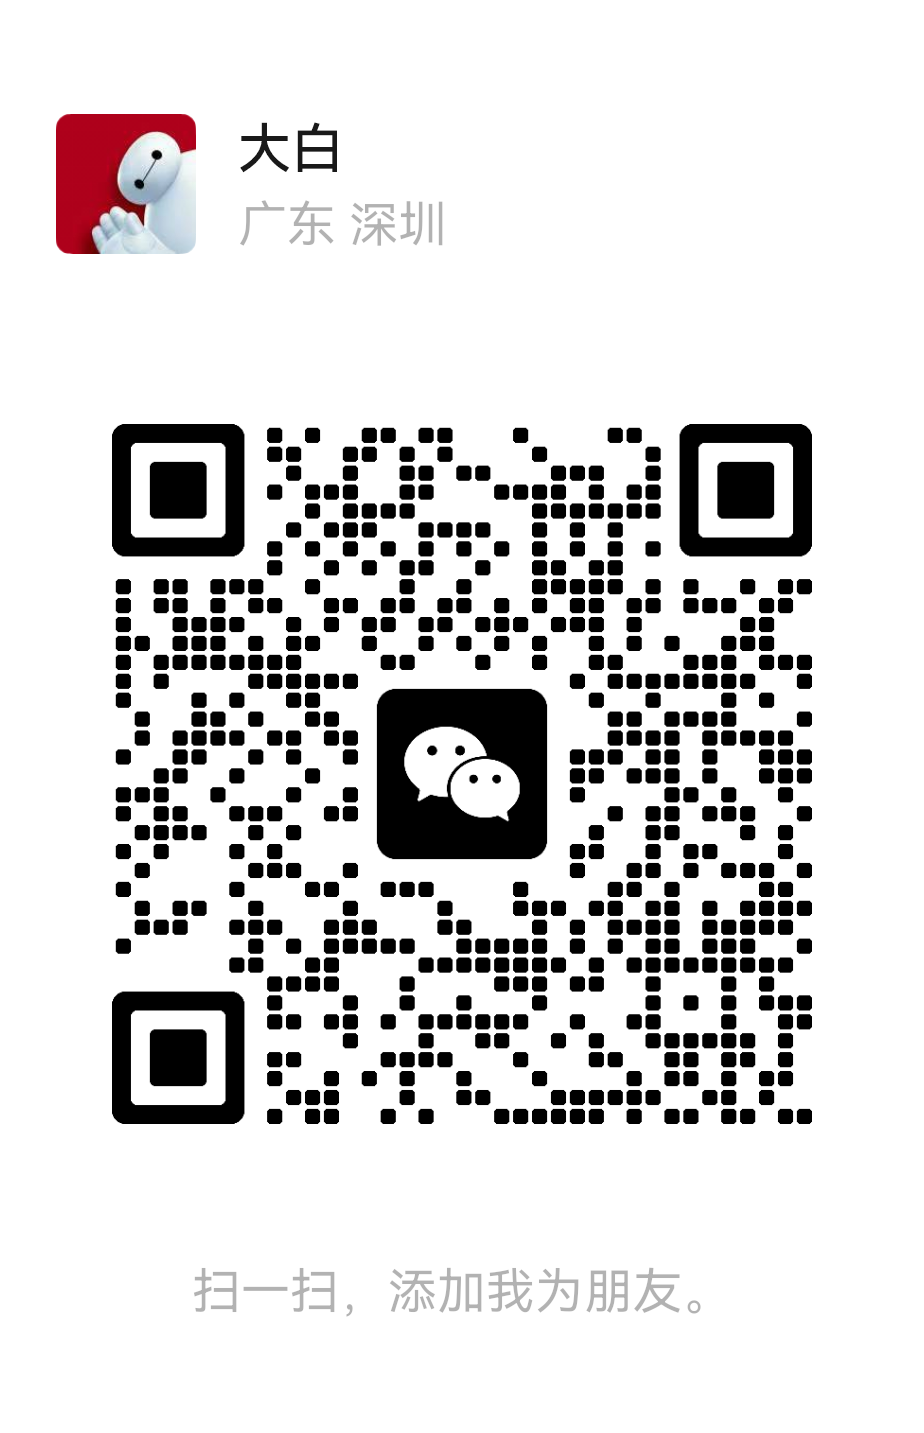
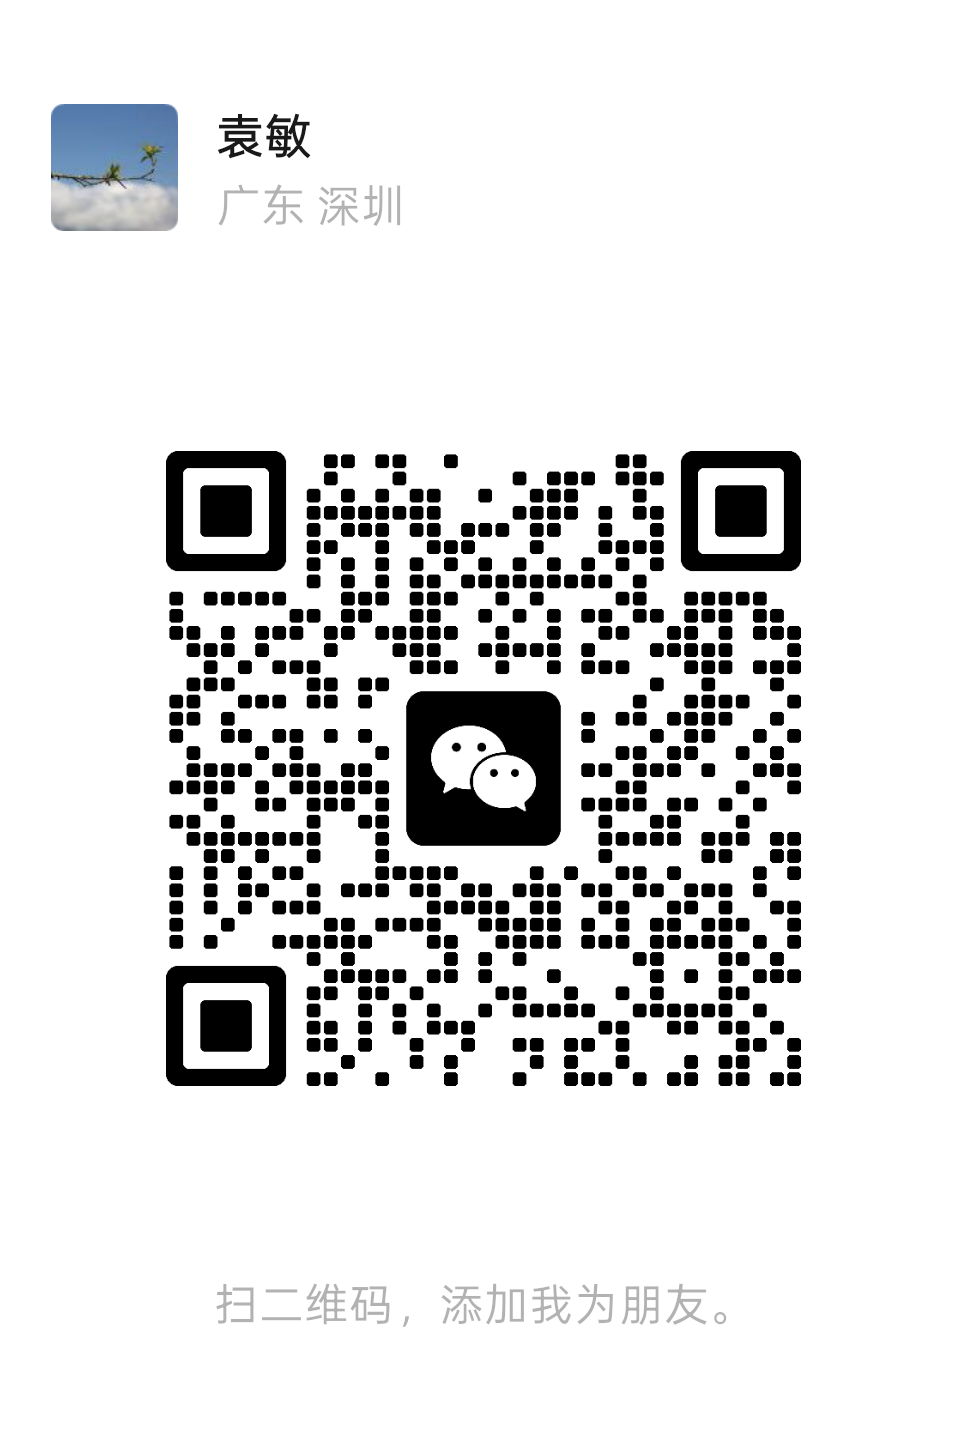
feat: 更新商务二维码与设备适用说明
- 联系弹窗二维码替换为「袁敏」微信，去掉商务负责人与电话
- 「适用设备类型」说明改为 SDK 支持各类芯片平台，不依赖底层架构

Changed region(s): [[0.1212, 0.2763, 0.8788, 0.7983], [0.0303, 0.0614, 0.4848, 0.1842], [0.2121, 0.8904, 0.7576, 0.9211]]

diff --git a/components/site/ApplyBtn.tsx b/components/site/ApplyBtn.tsx
@@ -4,12 +4,9 @@ import { useEffect, useState } from "react";
 import { createPortal } from "react-dom";
 import Image from "next/image";
 import { ink } from "@/components/palette";
-import { ACCENT } from "./accent";
 import { SolidBtn } from "./atoms";
 
-const BD_PHONE = "15712017127";
-
-// Contact modal (BD WeChat QR + phone) — controlled, so a parent can keep it
+// Contact modal (BD WeChat QR) — controlled, so a parent can keep it
 // mounted outside containers that unmount on interaction (e.g. NavBar's mobile
 // dropdown collapses when its 申请合作 is tapped; local state inside the
 // dropdown would be destroyed before the modal ever renders).
@@ -67,17 +64,10 @@ export function ContactModal({ open, onClose }: { open: boolean; onClose: () => 
         <Image
           src={`${process.env.NEXT_PUBLIC_BASE_PATH ?? ""}/brand/bd-wechat.png`}
           alt="商务微信二维码"
-          width={924}
+          width={968}
           height={1433}
           className="mx-auto mt-4 w-full rounded-xl"
         />
-
-        <p className="mt-4 text-sm" style={{ color: ink[700] }}>
-          商务负责人&nbsp;
-          <a href={`tel:${BD_PHONE}`} className="font-semibold hover:opacity-70" style={{ color: ACCENT.deep }}>
-            {BD_PHONE}
-          </a>
-        </p>
       </div>
     </div>,
     document.body,

diff --git a/app/sections/Overview.tsx b/app/sections/Overview.tsx
@@ -43,7 +43,7 @@ export function OverviewSection() {
       <h3 className="mt-14 text-xl font-semibold tracking-tight" style={{ color: ink[900] }}>
         适用设备类型
       </h3>
-      <p className="mt-2 text-sm" style={{ color: ink[500] }}>* 具体需根据芯片性能进行评估</p>
+      <p className="mt-2 text-sm" style={{ color: ink[500] }}>* SDK 支持各类芯片平台，不依赖芯片底层架构</p>
       <div className="mt-5 grid gap-6 sm:grid-cols-2">
         <div className="rounded-2xl p-7" style={cardSurface}>
           <div className="text-sm font-semibold" style={{ color: pastels.sage.deep }}>✓ 适用</div>
